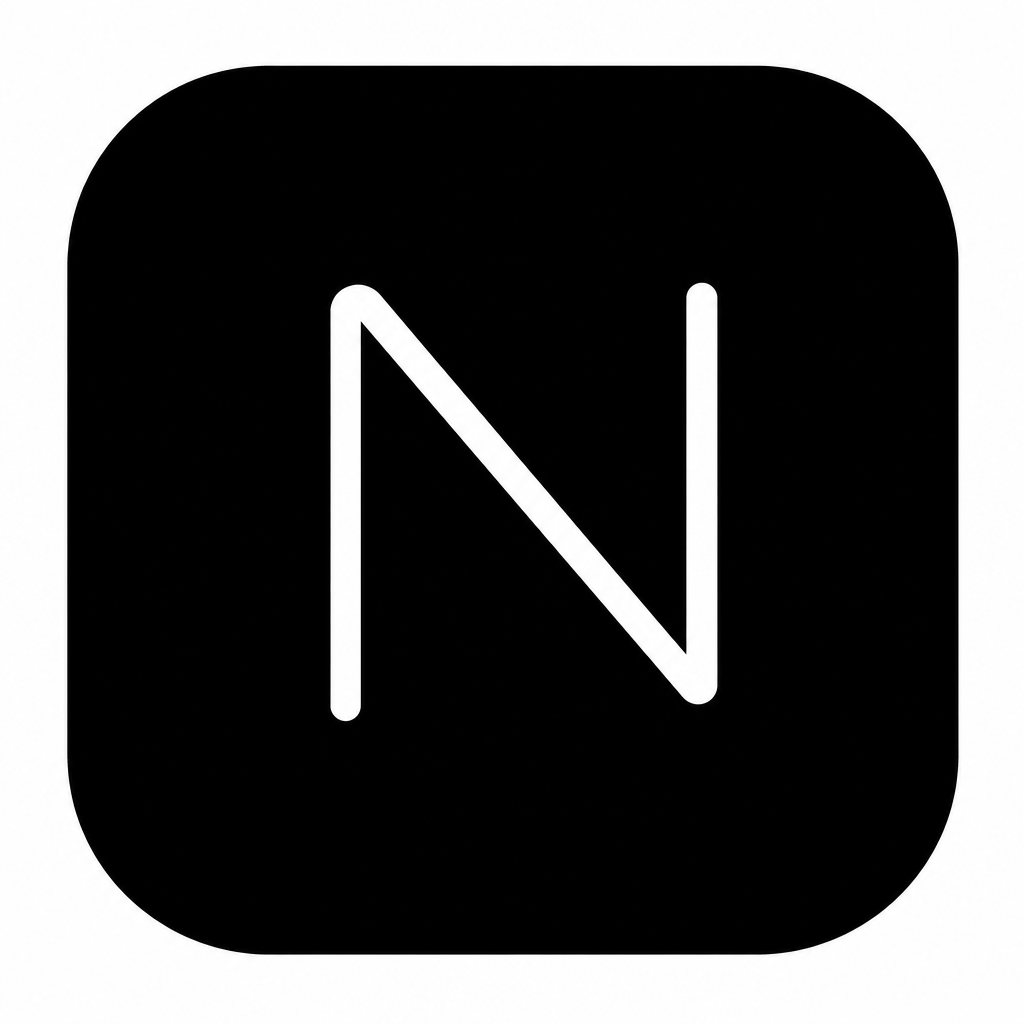
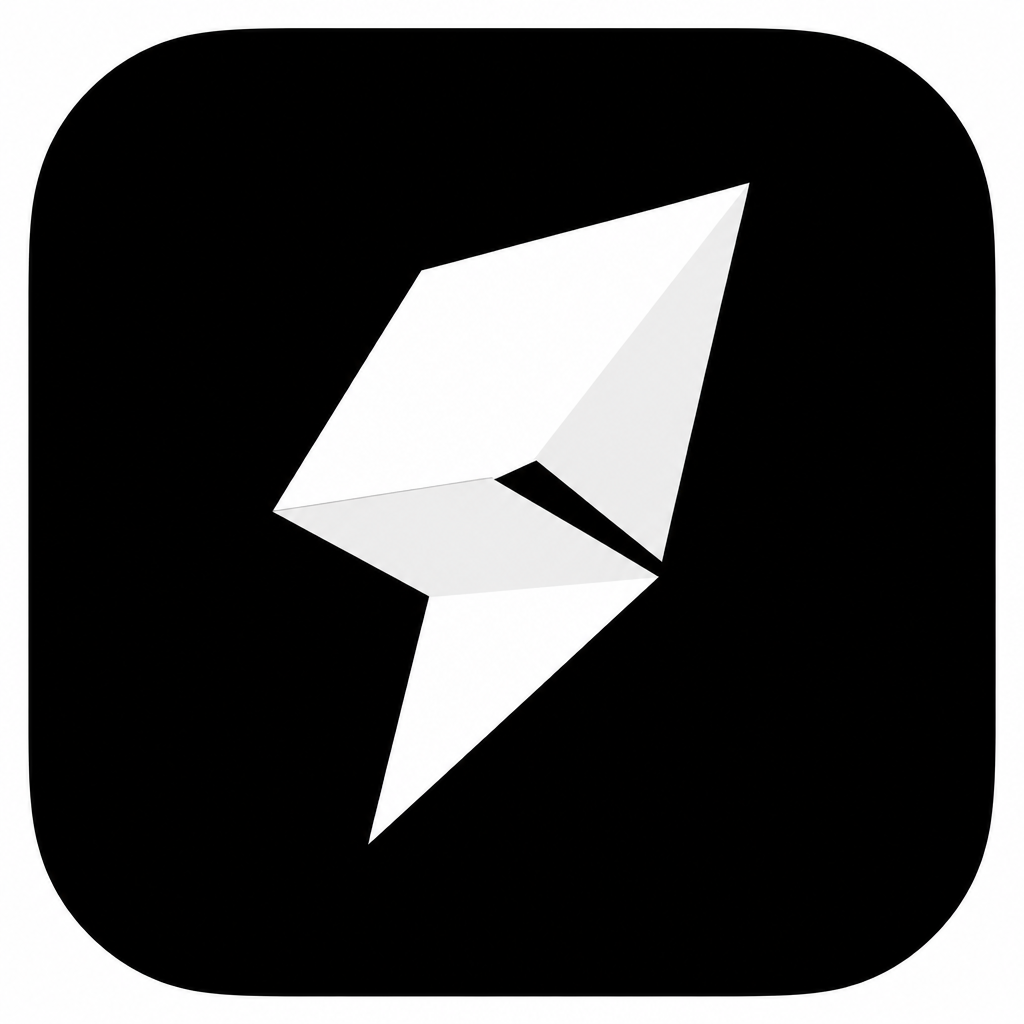
newlogo

Changed region(s): [[0.0, 0.0, 1.0, 1.0], [0.25, 0.1562, 0.75, 0.8125]]

diff --git a/src/components/shared/wise-logo.tsx b/src/components/shared/wise-logo.tsx
@@ -21,7 +21,7 @@ const wordClass = {
   xl: "text-[2.75rem]",
 } as const;
 
-/** Brex-inspired geometric mark — abstract N as continuous angled bars */
+/** Faceted geometric mark — abstract folded planes, Brex energy */
 export function NiroMark({
   size = 36,
   className,
@@ -43,21 +43,31 @@ export function NiroMark({
       xmlns="http://www.w3.org/2000/svg"
       className={cn("shrink-0", className)}
       aria-hidden
-      initial={shouldAnimate ? { opacity: 0, scale: 0.86 } : false}
-      animate={{ opacity: 1, scale: 1 }}
+      initial={shouldAnimate ? { opacity: 0, scale: 0.88, rotate: -4 } : false}
+      animate={{ opacity: 1, scale: 1, rotate: 0 }}
       transition={{ duration: 0.55, ease: easeOut }}
     >
-      <rect width="40" height="40" rx="11" fill="white" />
-      <motion.path
-        d="M12 28.5V11.5L28 28.5V11.5"
-        stroke="black"
-        strokeWidth="3.25"
-        strokeLinecap="round"
-        strokeLinejoin="round"
-        initial={shouldAnimate ? { pathLength: 0, opacity: 0 } : false}
-        animate={{ pathLength: 1, opacity: 1 }}
-        transition={{ duration: 0.85, ease: easeOut, delay: 0.12 }}
+      <rect width="40" height="40" rx="10" fill="#000000" />
+      <rect
+        x="0.75"
+        y="0.75"
+        width="38.5"
+        height="38.5"
+        rx="9.25"
+        stroke="white"
+        strokeOpacity="0.1"
       />
+      {/* Faceted ribbon / crystal — not a letter */}
+      <motion.g
+        initial={shouldAnimate ? { opacity: 0, y: 3 } : false}
+        animate={{ opacity: 1, y: 0 }}
+        transition={{ duration: 0.5, ease: easeOut, delay: 0.1 }}
+      >
+        <path fill="#ffffff" d="M14.2 7.5 L25.8 7.5 L28.5 14.2 L20 18.8 L11.5 14.2 Z" />
+        <path fill="#d8d8d8" d="M11.5 14.2 L20 18.8 L20 25.2 L11.5 29.5 Z" />
+        <path fill="#ffffff" d="M20 18.8 L28.5 14.2 L28.5 29.5 L20 25.2 Z" />
+        <path fill="#bdbdbd" d="M11.5 29.5 L20 25.2 L28.5 29.5 L20 33.2 Z" />
+      </motion.g>
     </motion.svg>
   );
 }
@@ -81,7 +91,7 @@ export function NiroLogo({
         <NiroMark size={s} animate={animate} />
         <motion.span
           className={cn(
-            "font-display font-semibold tracking-[-0.04em] text-white leading-none",
+            "font-display font-semibold tracking-[-0.045em] text-white leading-none",
             wordClass[size]
           )}
           initial={shouldAnimate ? { opacity: 0, x: -8 } : false}
